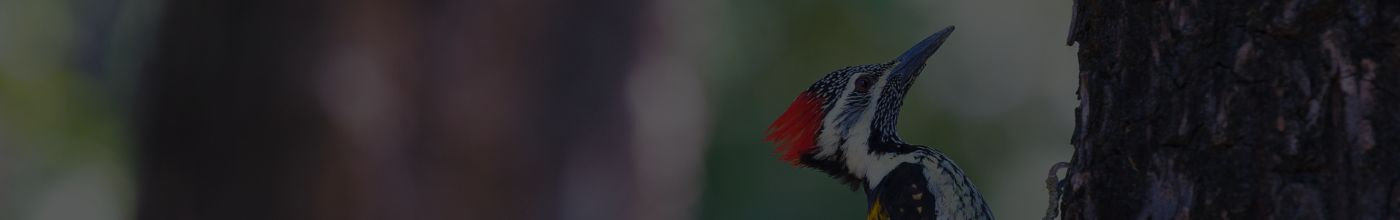
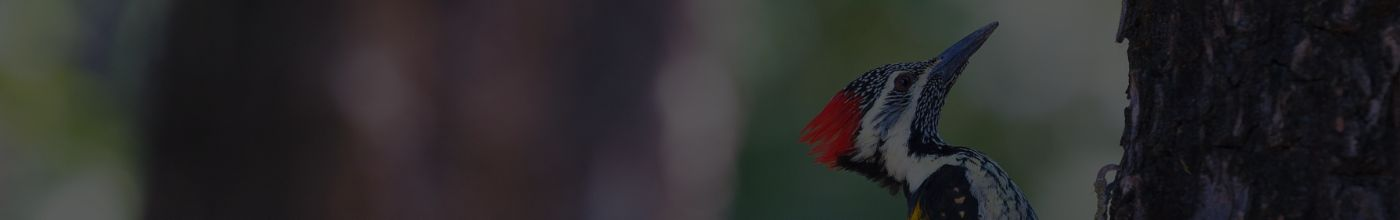
changed creditos footer

diff --git a/episodios.html b/episodios.html
@@ -3169,7 +3169,9 @@
 
           <li>Home: <a href="https://unsplash.com/photos/4knyHGd2e3U" target="_blank">Imagem</a> de <a href="https://unsplash.com/@matheuspkll" target="_blank">Matheus Lara</a>, retirada de <a href="https://unsplash.com/" target="_blank">Unsplash</a></li>
 
-          <li>Subtítulos: <a href="https://www.flickr.com/photos/thomashawk/50140438166" target="_blank">Imagem</a> de <a href="https://www.flickr.com/photos/thomashawk/" target="_blank">Thomas Hawk</a>, retirada de <a href="https://www.flickr.com/" target="_blank">Flickr</a>, <a href="https://creativecommons.org/licenses/by-nc/2.0/" target="_blank">CC BY-NC 2.0</a></li>
+          <li>Home: <a href="https://unsplash.com/photos/z3F0JjC8Ars" target="_blank">Imagem</a> de <a href="https://unsplash.com/@pennell_zack" target="_blank">Bill Pennell</a>, retirada de <a href="https://unsplash.com/" target="_blank">Unsplash</a></li>
+
+          <li>Home e Subtítulos: <a href="https://www.flickr.com/photos/thomashawk/50140438166" target="_blank">Imagem</a> de <a href="https://www.flickr.com/photos/thomashawk/" target="_blank">Thomas Hawk</a>, retirada de <a href="https://www.flickr.com/" target="_blank">Flickr</a>, <a href="https://creativecommons.org/licenses/by-nc/2.0/" target="_blank">CC BY-NC 2.0</a></li>
 
           <li>Footer: <a href="https://unsplash.com/photos/uir9-eki1MA" target="_blank">Imagem</a> de <a href="https://unsplash.com/@hans_veth" target="_blank">Hans Veth</a>, retirada de <a href="https://unsplash.com/" target="_blank">Unsplash</a></li>
         </ul>

diff --git a/historia.html b/historia.html
@@ -113,7 +113,9 @@
 
           <li>Home: <a href="https://unsplash.com/photos/4knyHGd2e3U" target="_blank">Imagem</a> de <a href="https://unsplash.com/@matheuspkll" target="_blank">Matheus Lara</a>, retirada de <a href="https://unsplash.com/" target="_blank">Unsplash</a></li>
 
-          <li>Subtítulos: <a href="https://www.flickr.com/photos/thomashawk/50140438166" target="_blank">Imagem</a> de <a href="https://www.flickr.com/photos/thomashawk/" target="_blank">Thomas Hawk</a>, retirada de <a href="https://www.flickr.com/" target="_blank">Flickr</a>, <a href="https://creativecommons.org/licenses/by-nc/2.0/" target="_blank">CC BY-NC 2.0</a></li>
+          <li>Home: <a href="https://unsplash.com/photos/z3F0JjC8Ars" target="_blank">Imagem</a> de <a href="https://unsplash.com/@pennell_zack" target="_blank">Bill Pennell</a>, retirada de <a href="https://unsplash.com/" target="_blank">Unsplash</a></li>
+
+          <li>Home e Subtítulos: <a href="https://www.flickr.com/photos/thomashawk/50140438166" target="_blank">Imagem</a> de <a href="https://www.flickr.com/photos/thomashawk/" target="_blank">Thomas Hawk</a>, retirada de <a href="https://www.flickr.com/" target="_blank">Flickr</a>, <a href="https://creativecommons.org/licenses/by-nc/2.0/" target="_blank">CC BY-NC 2.0</a></li>
 
           <li>Footer: <a href="https://unsplash.com/photos/uir9-eki1MA" target="_blank">Imagem</a> de <a href="https://unsplash.com/@hans_veth" target="_blank">Hans Veth</a>, retirada de <a href="https://unsplash.com/" target="_blank">Unsplash</a></li>
         </ul>

diff --git a/frases.html b/frases.html
@@ -76,7 +76,9 @@
 
           <li>Home: <a href="https://unsplash.com/photos/4knyHGd2e3U" target="_blank">Imagem</a> de <a href="https://unsplash.com/@matheuspkll" target="_blank">Matheus Lara</a>, retirada de <a href="https://unsplash.com/" target="_blank">Unsplash</a></li>
 
-          <li>Subtítulos: <a href="https://www.flickr.com/photos/thomashawk/50140438166" target="_blank">Imagem</a> de <a href="https://www.flickr.com/photos/thomashawk/" target="_blank">Thomas Hawk</a>, retirada de <a href="https://www.flickr.com/" target="_blank">Flickr</a>, <a href="https://creativecommons.org/licenses/by-nc/2.0/" target="_blank">CC BY-NC 2.0</a></li>
+          <li>Home: <a href="https://unsplash.com/photos/z3F0JjC8Ars" target="_blank">Imagem</a> de <a href="https://unsplash.com/@pennell_zack" target="_blank">Bill Pennell</a>, retirada de <a href="https://unsplash.com/" target="_blank">Unsplash</a></li>
+
+          <li>Home e Subtítulos: <a href="https://www.flickr.com/photos/thomashawk/50140438166" target="_blank">Imagem</a> de <a href="https://www.flickr.com/photos/thomashawk/" target="_blank">Thomas Hawk</a>, retirada de <a href="https://www.flickr.com/" target="_blank">Flickr</a>, <a href="https://creativecommons.org/licenses/by-nc/2.0/" target="_blank">CC BY-NC 2.0</a></li>
 
           <li>Footer: <a href="https://unsplash.com/photos/uir9-eki1MA" target="_blank">Imagem</a> de <a href="https://unsplash.com/@hans_veth" target="_blank">Hans Veth</a>, retirada de <a href="https://unsplash.com/" target="_blank">Unsplash</a></li>
         </ul>

diff --git a/css/style.css b/css/style.css
@@ -145,7 +145,7 @@ iframe {
 .creditos {
   border-left: #CF0106 solid 5px;
   padding: 10px;
-  margin-top: 30px;
+  margin-top: 20px;
 }
 
 .creditos li:nth-child(1) {
@@ -160,7 +160,7 @@ iframe {
 .creditos a {
   color: #fff;
   padding: 8px 0px;
-  font-size: 16px;
+  font-size: 15px;
 }
 
 .creditos a:hover {
